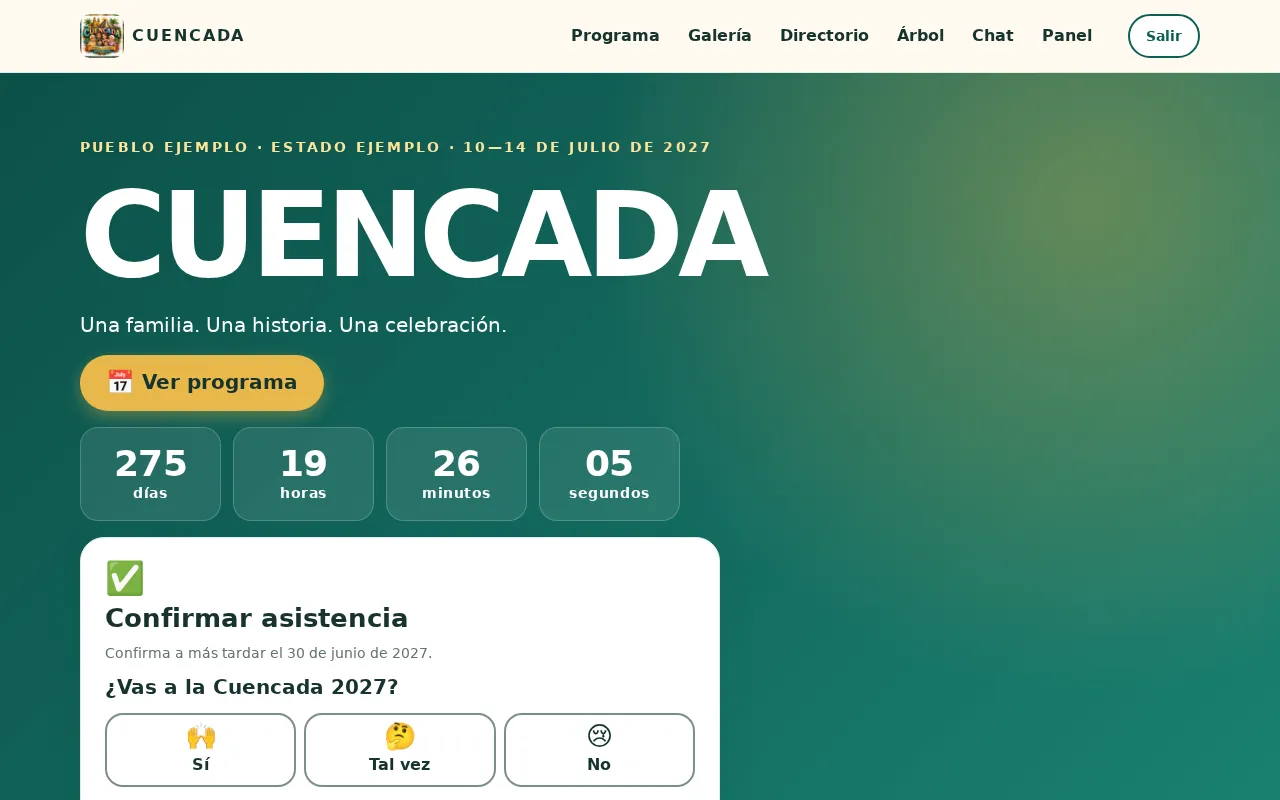
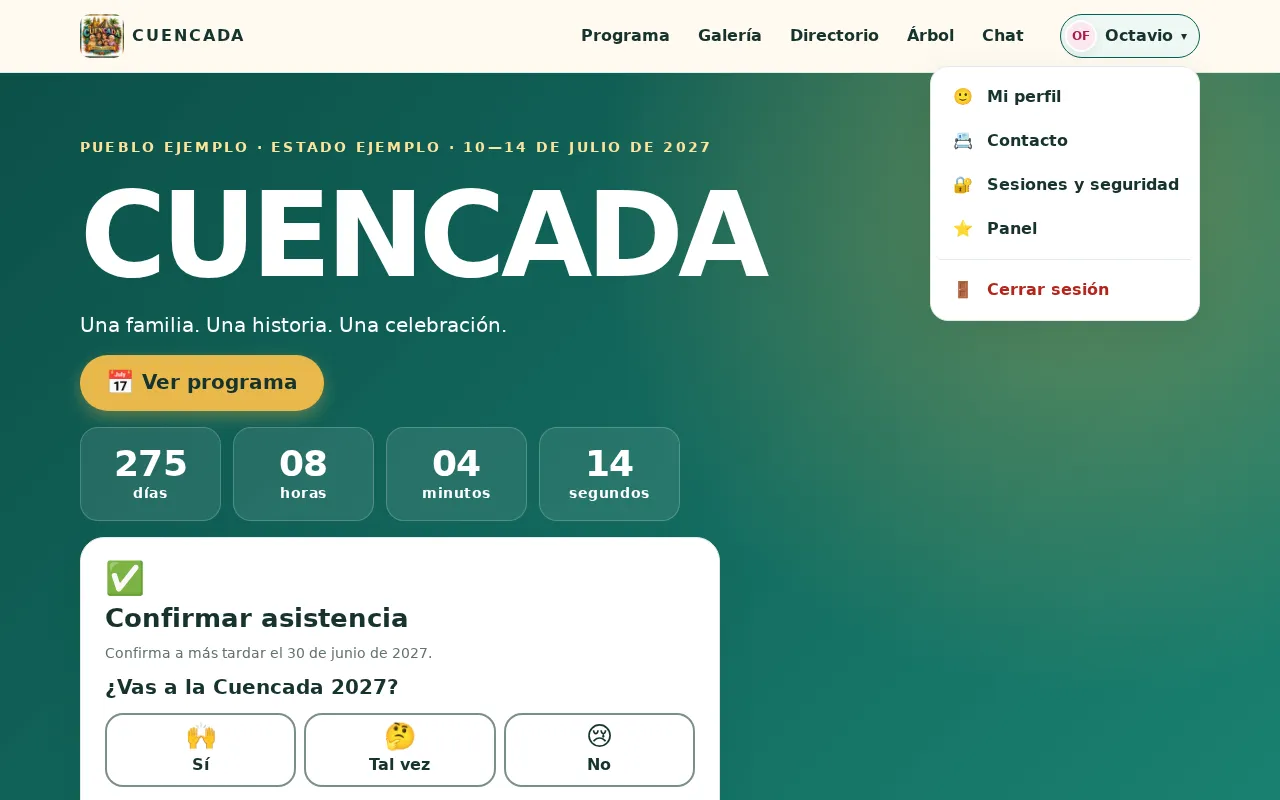
WP-4.7: profile entry points (TopNav account menu, /perfil#contacto, Directorio/Árbol/Home links)
Desktop had no way to reach /perfil. The TopNav's bare Salir becomes an
account menu (avatar + first name): Mi perfil, Contacto, Sesiones y
seguridad, Panel for admins (moved out of the bar) and Cerrar sesión.
Más gains a Contacto row; /perfil#contacto scrolls to and focuses the
Contacto section. Directorio gets an Editar mi perfil banner, a (tú) row
and a button on the member's own card; the tree adds Editar mi contacto
on the user's own node; Home shows a dismissible Completa tu perfil card
when there is no photo and no contact. Coordination doc and nav
screenshots included.

Claude-Session: https://claude.ai/code/session_01Bj2xLmagfFJ5w53HEUn9Sj

diff --git a/docs/coordination/WP-4.7.md b/docs/coordination/WP-4.7.md
@@ -1,0 +1,88 @@
+# WP-4.7 Profile entry points: account menu and contextual "Editar mi perfil"
+Owner: Senior JS Frontend (with UI/UX) · Branch: `wp/4.7-profile-entry` · PR: # (not opened)
+
+Based on `origin/main` (`2d39ec3`, WP-4.6 merged). Web only: no contract, server or migration changes.
+
+## Why
+From the owner: "I don't see a way to edit my user profile to update my contact info." At ≥900 px the TopNav had no link to `/perfil`, only a bare "Salir". On phones the only path was Más → Mi perfil, and nothing in the directory, the tree or Home pointed there.
+
+## Scope
+### 1. TopNav account menu (`apps/web/src/app/AccountMenu.tsx`, `accountMenu.module.css`)
+- For members and admins, "Salir" is replaced by an account button: the avatar (`AvatarCircle` sm, photo or initials) and the first word of `displayName`, plus a caret. Accessible name: **"Mi cuenta: {nombre}"** (`aria-label`; the visible first name is in it, so label-in-name holds). Below 480 px only the avatar shows. The button is 44 px tall and at least 44 px wide.
+- Disclosure pattern: `<button aria-expanded aria-controls>` plus a `<ul>` of links (not `role="menu"`, so screen readers keep their normal link navigation). Entries, each 44 px tall:
+  - Mi perfil → `/perfil`
+  - Contacto → `/perfil#contacto`
+  - Sesiones y seguridad → `/perfil/sesiones`
+  - Panel → `/admin` (admins only)
+  - Cerrar sesión (danger tone, below a divider)
+- Keyboard: Enter/Space toggle. ArrowDown/ArrowUp on the button open the menu on the first/last entry. Inside, ArrowDown/ArrowUp wrap, and Home/End jump. Escape closes and returns focus to the button. Tab past the last entry closes it.
+- It also closes on a click/tap outside (`pointerdown`), on any navigation (`location.key`), and after choosing an entry. A press inside the menu never closes it before the click lands (Safari blurs the button on press without focusing the link).
+- During a forced password change the menu offers only "Cerrar sesión": every other page would bounce back to `/cambiar-contrasena`.
+- While the session restores (`pending`), the header action is still empty. Anonymous visitors keep "Entrar" (hidden on the login screens, as before).
+- "Cerrar sesión" does what "Salir" did: `dispatch(logout())`.
+- The button shows at every width (it replaces "Salir", which also showed on phones), so phones gain the same shortcut next to Más.
+
+### 2. Mobile Más (`app/MorePage.tsx`)
+A separate **Contacto** row (📇 → `/perfil#contacto`) right after Mi perfil.
+
+### 3. `/perfil#contacto` (`features/profile`)
+- `paths.ts`: `PROFILE_PATH`, `CONTACT_SECTION_ID = "contacto"`, `PROFILE_CONTACT_PATH`. It is a tiny module, so importing it never pulls the profile page or its API into another chunk.
+- `ContactSection`'s form has `id="contacto"`. Its "Contacto" `h2` is `tabIndex={-1}` with `data-section-heading`, and `scroll-margin-top` clears the sticky TopNav.
+- `lib/useScrollToSection.ts`: once the profile has loaded, it scrolls to the fragment's section and focuses its heading. It runs again on every navigation (`location.key`), so "Contacto" works while already on `/perfil`. Only whitelisted ids are used, and a malformed `%` fragment is ignored.
+
+### 4. Contextual links
+- **Directorio** (`DirectoryPage`, `DirectoryList`, `DirectoryDetail`):
+  - A compact banner under the title: "¿Cambió tu foto, tu teléfono o tus redes? Actualízalos en tu perfil." with **Editar mi perfil** → `/perfil`. It is always shown to the member, because their own row may be pages away or hidden ("Aparecer en el directorio" off).
+  - The member's own row reads "{nombre} (tú)".
+  - Their own card gets an **Editar mi perfil** button.
+- **Árbol** (`FamilyTreePage`): on the user's own person (`isMine`), **Editar mi contacto** → `/perfil#contacto` sits next to "Editar mis datos". It shows even when `canEdit` is false, because linking to one's own profile needs no tree permission. Contacts live in the profile, not the tree person, which is why this is a link and not a dialog.
+- **Home** (`features/profile/components/CompleteProfileCard.tsx`, rendered by `HomePage` after the hero):
+  - For a logged-in member (not during a forced password change) whose profile has **no avatar and no contact**, a small dismissible card: "Completa tu perfil: foto y contacto" + **Completar perfil** → `/perfil`.
+  - "No contact" (`lib/completeness.ts` `needsProfileCompletion`): no phone and no WhatsApp/Instagram/Facebook/TikTok/LinkedIn/GitHub/website. The account email doesn't count, since every member has one.
+  - A `/me` user with an `avatarUrl` never triggers `GET /profile/me`.
+  - Closing it writes `cuencada-profile-prompt-dismissed:{userId}` = `"1"` to localStorage, inside try/catch. With storage blocked it closes for the visit only.
+
+## Decisions
+1. **"Panel" moved from the TopNav links into the account menu** (the brief said to avoid duplicates). With the avatar and first name, an admin's bar would have needed about 920 px for six links plus the account button, which is more than the 900 px breakpoint. Admins now see the same five links as members, and Panel is one click away in the menu. `/mas` keeps "Panel de administración". The `ADMIN_NAV_LABEL` export is gone (no other users).
+2. **Disclosure, not ARIA menu.** The entries are navigation links plus one action, so a list of links behind `aria-expanded` is the simpler and better-supported pattern. Arrow keys are added as a convenience; Tab works as usual.
+3. **Account button on phones too.** The old "Salir" button was already in the phone header, and keeping one header action at every width avoids a layout switch. At 320 px it is the avatar only.
+4. **The directory banner is always shown**, not only when the member is listed. The client cannot cheaply tell whether the member is listed without paging, and the copy works both ways.
+5. **localStorage key holds the user id** (an opaque UUID, not PII). This follows the precedent of the install card's dismissal (`features/pwa/install.ts`). No profile data is stored.
+
+## Security / privacy
+UX only: `/perfil` and every `/profile/me*` route act on the caller, whatever the client shows. "Panel" in the menu is a hint, and the server enforces the admin role. The fragment is whitelisted before `getElementById`. No new storage of PII. The Home card reads the caller's own profile, which they can already see on `/perfil`.
+
+## Tests
+- Web (Vitest + RTL):
+  - `app/AccountMenu.test.tsx`: open/close, first name + initials, Escape returns focus, click outside, Tab out, arrow/Home/End keys, Contacto → `/perfil#contacto` closes the menu, admin Panel once, Cerrar sesión logs out and shows Entrar, forced change offers only Cerrar sesión; `firstName`.
+  - `AppLayout.test.tsx`: the menu replaces Salir; admins have no Panel link in the bar and exactly one in the menu. It now uses `createTestServer`.
+  - `MorePage.test.tsx`: the Contacto row.
+  - `profile/pages/ProfilePage.contacto.test.tsx`: scrolls to `#contacto` and focuses its heading after load; runs again on a same-page navigation; ignores unknown or malformed fragments.
+  - `profile/lib/completeness.test.ts`.
+  - `cuencadas/pages/HomePage.profilePrompt.test.tsx`: shown, hidden for a phone/network/photo, no request when `/me` has an avatar, anonymous, dismiss persisted per user, other user still sees it, blocked storage.
+  - `directory/pages/DirectoryPage.test.tsx`: banner, "(tú)" row, own card's button, none on others' cards.
+  - `family/pages/FamilyEditing.test.tsx`: Editar mi contacto on my node only.
+  - `HomePage.test.tsx` and `HomePage.highlights.test.tsx` gained a `/profile/me` handler.
+- E2E:
+  - `nav.spec.ts` 11c: the admin bar equals the member's, and Panel is reached through the account menu.
+  - New 11d `@desktop`: desktop-1280 opens the menu, checks Escape/focus/ArrowDown, follows Contacto to `/perfil#contacto` with the heading in the viewport and focused. Phones go Más → Mi perfil, then Más → Contacto. Both then check Directorio → Editar mi perfil → `/perfil`.
+  - `quality.spec.ts` gained `perfil-contacto` and `menu-cuenta` (menu open) at 320/375 + axe.
+  - Every `"Salir"` check (`support/fixtures.ts` `login`, `auth`, `chat`, `mergePeople`) now looks for the account button `/^Mi cuenta/`.
+
+## Screenshots
+`docs/ux/screenshots/nav/`:
+- `account-menu-{375,1280}.webp` (menu open)
+- `directorio-editar-perfil-{375,1280}.webp`
+- `admin-{375,1280}.webp` and `member-…`/`anonymous-…`/`restricted-…` refreshed with the new header
+
+All use the fictional e2e cast, from `E2E_UPDATE_DOCS=1` runs of `nav.spec.ts`.
+
+## Verification (2026-10-08)
+On `origin/main` `2d39ec3` (re-fetched before finishing: no newer commits, so the merge was a no-op):
+- `pnpm lint`: clean.
+- `pnpm turbo run typecheck --force`: 6/6 tasks.
+- `pnpm test`: 189 files, 2476 tests.
+- `pnpm build`: ok. Initial JS is 179.79 kB gzip (budget 190).
+- `pnpm typecheck:e2e`: ok.
+- `pnpm e2e` on isolated ports 3770/3771/4770 with DB `cuencada_w47_e2e`: 73 passed (journeys on iphone-13, pixel-7 and desktop-1280, plus the 320/375 + axe gates including the new `perfil-contacto` and `menu-cuenta`). Lighthouse passed 1/1.
+- Screenshots: `E2E_UPDATE_DOCS=1` run of `nav.spec.ts` on iphone-13 and desktop-1280 (8 passed).
